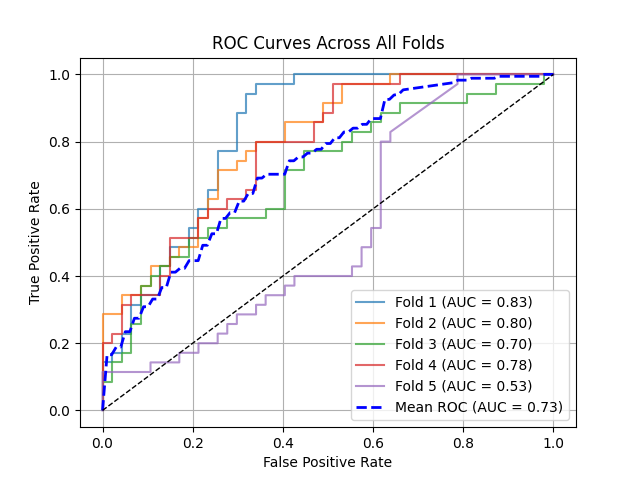
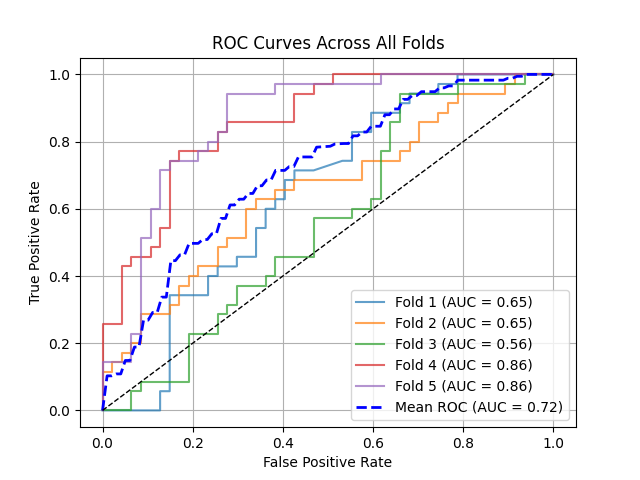
changed the suspecious aug

diff --git a/dataset_washu2.py b/dataset_washu2.py
@@ -81,11 +81,11 @@ train_transform = A.Compose([
     A.RandomRotate90(p=0.5),
 
 	A.ShiftScaleRotate(shift_limit=0.05, scale_limit=0.05, rotate_limit=10, border_mode=0, value=0, p=0.5), 
-    A.ElasticTransform(p=0.5),
-    A.GridDistortion(p=0.2),
+    #A.ElasticTransform(p=0.5),
+    #A.GridDistortion(p=0.2),
 
 	#A.GaussNoise(var_limit=(0.2, 0.44), p=1),
-    A.RandomBrightnessContrast(brightness_limit=0.01, contrast_limit=0.01, p=0.5),
+    #A.RandomBrightnessContrast(brightness_limit=0.01, contrast_limit=0.01, p=0.5),
     #A.CLAHE(clip_limit=.5, tile_grid_size=(8, 8), p=0.5),
     A.Downscale(scale_range=(0.7,0.95), p=0.5),
 	

diff --git a/train_washu2_classifier_multihead.py b/train_washu2_classifier_multihead.py
@@ -41,7 +41,7 @@ all_tprs = []
 all_aucs = []
 
 project_title = "Ovarian Cancer Classification 4"
-Experiment_Group = f"Exp9:Multihead_model_.5_pre_encoder_{commit_log}"
+Experiment_Group = f"Exp10:data_augmentation_testing_{commit_log}"
 train_config = {
         "k_fold": k_fold,
         "batch_size": batch_size,
